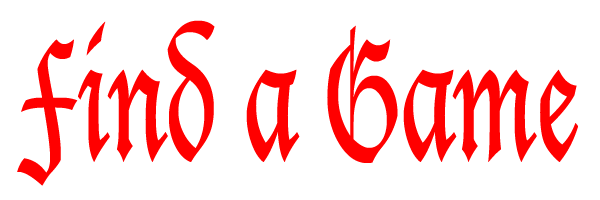
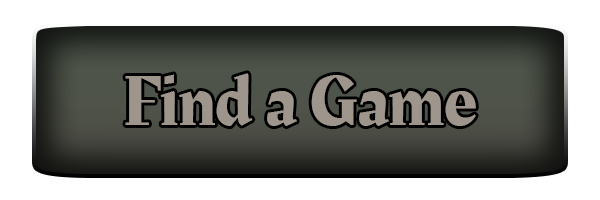
ayy

diff --git a/Source/Imports/Images.java b/Source/Imports/Images.java
@@ -146,14 +146,26 @@ public class Images
 							image.getSubimage(no * 19, 0, 19, 17), 19, 17));
 				}
 
+				
+				
 				image = ImageIO.read(new File("Images//" +
+						"fulldustsidebig.png"));
+				for (int no = 0; no < image.getHeight() / 128; no++)
+				{
+					addtoImageArray(new GameImage("EXPLOSION0_" + no
+							+ IMAGE_FORMAT,
+							image.getSubimage(1, no * 128, 126, 126)));
+				}
+				
+				
+				/*image = ImageIO.read(new File("Images//" +
 						"EXPLOSION0_SHEET.png"));
 				for (int no = 0; no < image.getWidth() / 32; no++)
 				{
 					addtoImageArray(new GameImage("EXPLOSION0_" + no
 							+ IMAGE_FORMAT,
 							image.getSubimage(no * 32, 0, 32, 32)));
-				}
+				}*/
 
 				image = ImageIO.read(new File("Images//" +
 						"EXPLOSION1_SHEET.png"));
@@ -918,6 +930,8 @@ public class Images
 			addtoImageArray(new GameImage("PLAINBLACK.png",
 					Client.Client.SCREEN_WIDTH, Client.Client.SCREEN_HEIGHT));
 
+			addtoImageArray(new GameImage("ButtonTray.png",
+					(int)(ClientFrame.getScaledWidth(500)),(int)(ClientFrame.getScaledHeight(650))));
 			addtoImageArray(new GameImage("FindAGame.png",
 					(int)(ClientFrame.getScaledWidth(300)),(int)(ClientFrame.getScaledHeight(100))));
 			addtoImageArray(new GameImage("FindAGameClicked.png",
@@ -1059,4 +1073,5 @@ public class Images
 			return null;
 		}
 	}
+	
 }

diff --git a/Source/Menu/MainMenu.java b/Source/Menu/MainMenu.java
@@ -253,6 +253,7 @@ public class MainMenu implements KeyListener
 	private static class MainPanel extends JPanel implements ActionListener,
 	MouseListener
 	{
+		
 		int middle = (Client.SCREEN_WIDTH + ClientInventory.INVENTORY_WIDTH) / 2;
 		Image titleImage = Images.getImage("WorldQuestOnline");
 		Image background = Images.getImage("BACKGROUND");
@@ -261,6 +262,9 @@ public class MainMenu implements KeyListener
 		JButton createMap;
 		JButton instructions;
 
+		
+		Image buttonTrayImage = Images.getImage("ButtonTray");
+		
 		Image createMapImage = Images.getImage("CreateAMap");
 		Image createMapOver = Images.getImage("CreateAMapClicked");
 
@@ -406,6 +410,7 @@ public class MainMenu implements KeyListener
 			graphics.drawString("Press 'ESC' to quit",
 					ClientFrame.getScaledWidth(1920) - 120,
 					20);
+			graphics.drawImage(buttonTrayImage, middle-buttonTrayImage.getWidth(null)/2, (int) (350 * (Client.SCREEN_HEIGHT / 1080.0)), null);
 
 		}
 

diff --git a/Source/Server/Items/ServerProjectile.java b/Source/Server/Items/ServerProjectile.java
@@ -354,12 +354,12 @@ public class ServerProjectile extends ServerFlyingObject
 			setSolid(false);
 			setMapVisible(false);
 			counter = 0;
-			setWidth(32);
-			setHeight(32);
-			setX(getX() - 16);
-			setY(getY() - 16);
+			setWidth(128);
+			setHeight(128);
+			setX(getX() - 64);
+			setY(getY() - 80);
 			setImage("EXPLOSION0_0");
-			noOfExplosionFrames = 7;
+			noOfExplosionFrames = 6;
 		}
 		else if (getType() == ServerWorld.FIREBALL_TYPE)
 		{
